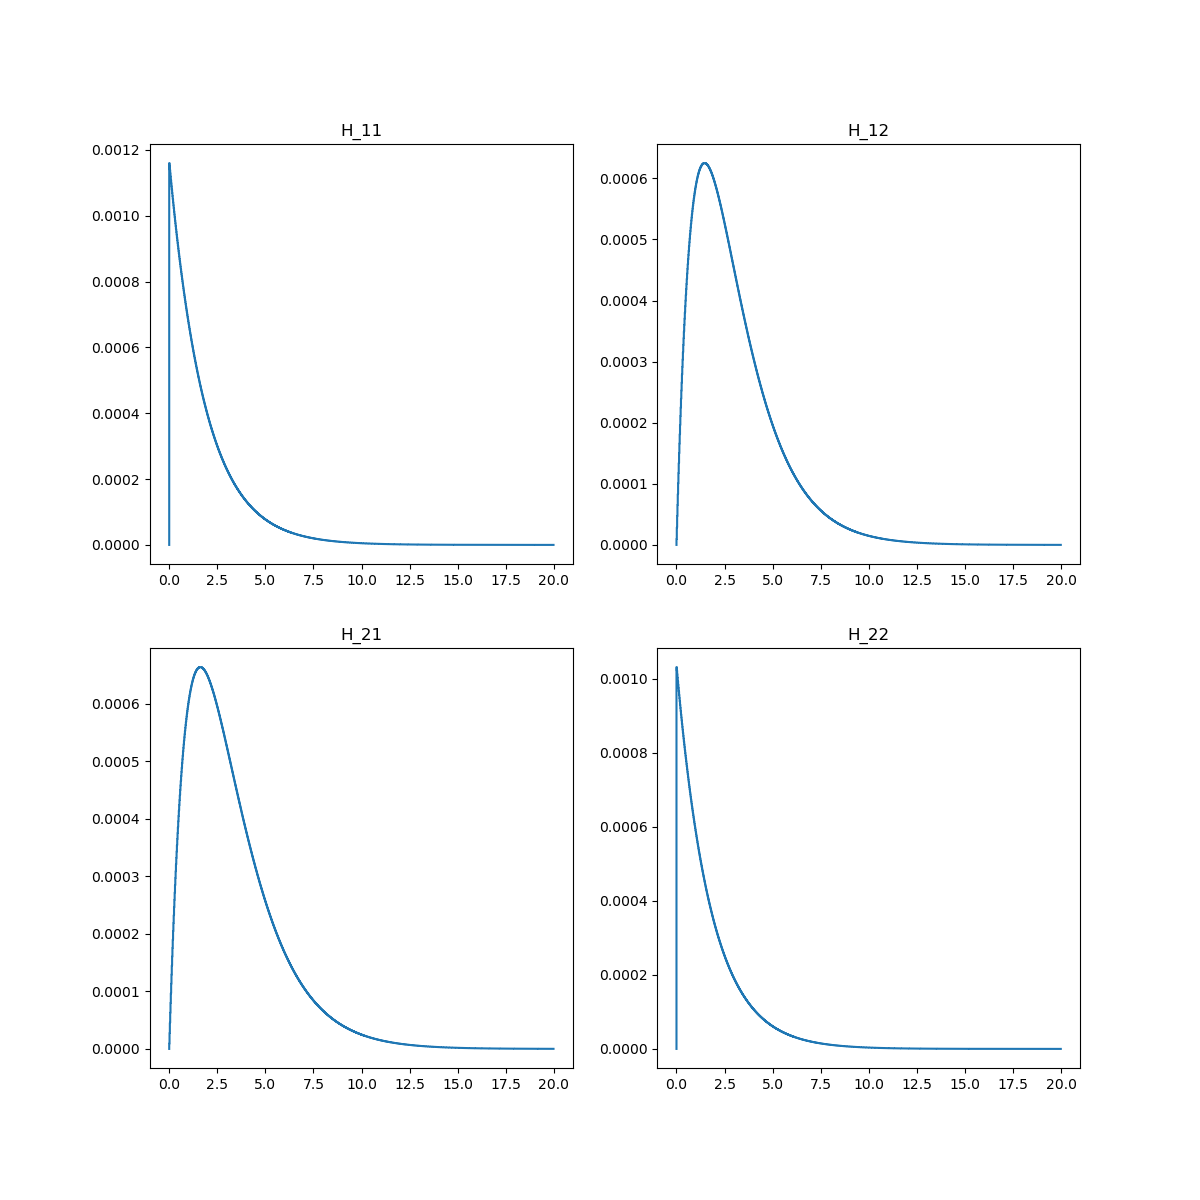
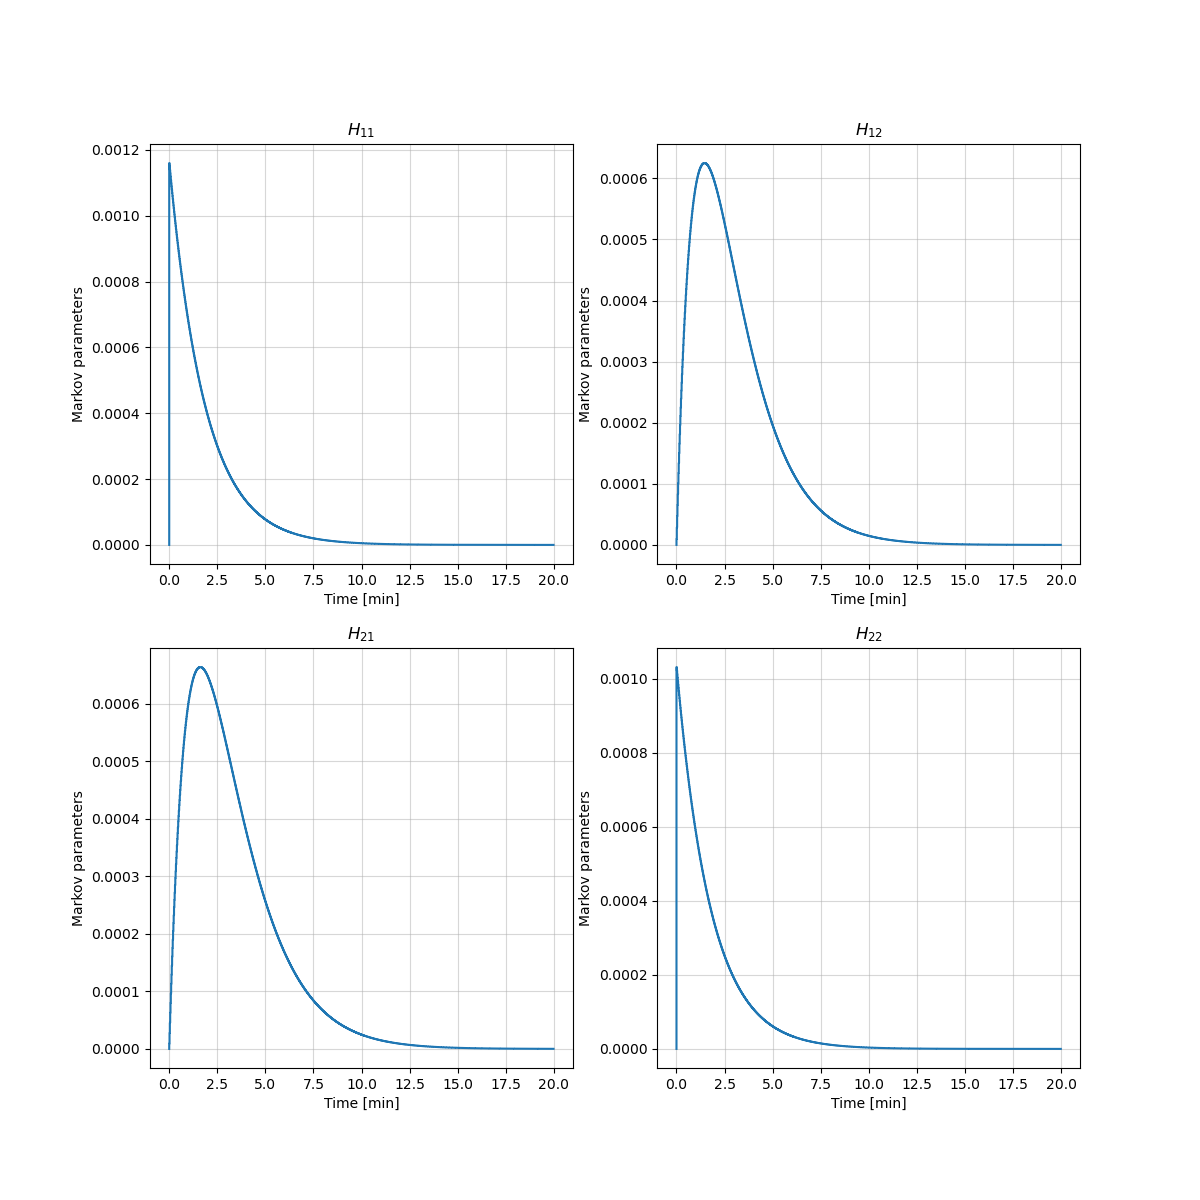
23-Oct last commit

diff --git a/Problem_4_2nd.py b/Problem_4_2nd.py
@@ -25,7 +25,7 @@ xs = Model.GetSteadyState(np.array([0, 0, 0, 0]), np.array([250, 325]), np.array
 
 # noise level = 0.1, step = 0.5
 
-df = pd.read_csv('figures/Problem4/Problem_4_df.csv')
+df = pd.read_csv('Results/Problem4/Problem_4_df.csv')
 
 df = df[df['noise_level'] == 0.0]
 
@@ -177,7 +177,10 @@ fig, axes = plt.subplots(2, 2, figsize=(12, 12))
 for i in range(2):
     for j in range(2):
         axes[i, j].step(t_array/60, H(i, j, t_array))
-        axes[i, j].set_title(f'H_{i+1}{j+1}')
+        axes[i, j].set_title(rf'$H_{{{i+1}{j+1}}}$')
+        axes[i, j].grid(True, alpha=0.5)
+        axes[i, j].set_xlabel('Time [min]')
+        axes[i, j].set_ylabel('Markov parameters')
 plt.savefig(f'figures/Problem4/Problem_4_Markow.png')
 plt.show()
 
@@ -187,14 +190,22 @@ S_21 = np.cumsum(H(1, 0, t_array))
 S_22 = np.cumsum(H(1, 1, t_array))
 
 fig, axes = plt.subplots(2, 2, figsize=(12, 12))
-axes[0, 0].step(t_array/60, S_11, label="Step parameters")
-axes[0, 0].set_title('S_11')
-axes[0, 1].step(t_array/60, S_12, label="Step parameters")
-axes[0, 1].set_title('S_12')
-axes[1, 0].step(t_array/60, S_21, label="Step parameters")
-axes[1, 0].set_title('S_21')
-axes[1, 1].step(t_array/60, S_22, label="Step parameters")
-axes[1, 1].set_title('S_22')
+axes[0, 0].step(t_array/60, S_11, label="Step parameters", color='black', ls='--')
+axes[0, 0].set_title(r'$S_{11}$')
+axes[0, 0].set_xlabel('Time [min]')
+axes[0, 0].set_ylabel('Step response')
+axes[0, 1].step(t_array/60, S_12, label="Step parameters", color='black', ls='--')
+axes[0, 1].set_title(r'$S_{12}$')
+axes[0, 1].set_xlabel('Time [min]')
+axes[0, 1].set_ylabel('Step response')
+axes[1, 0].step(t_array/60, S_21, label="Step parameters", color='black', ls='--')
+axes[1, 0].set_title(r'$S_{21}$')
+axes[1, 0].set_xlabel('Time [min]')
+axes[1, 0].set_ylabel('Step response')
+axes[1, 1].step(t_array/60, S_22, label="Step parameters", color='black', ls='--')
+axes[1, 1].set_title(r'$S_{22}$')
+axes[1, 1].set_xlabel('Time [min]')
+axes[1, 1].set_ylabel('Step response')
 
 steps = [0.1, 0.25, 0.5]
 for step in steps:
@@ -218,13 +229,10 @@ for step in steps:
     axes[1, 0].plot(t/60, h_norm[0, :], label=f"Sim (step {step})")
     axes[1, 1].plot(t/60, h_norm[1, :], label=f"Sim (step {step})")
 # plt.savefig(f'figures/Problem4/Problem_4_Stepresponse.png')
-axes[0, 0].legend()
 axes[0, 0].grid(alpha = 0.25)
-axes[1, 0].legend()
 axes[1, 0].grid(alpha = 0.25)
-axes[0, 1].legend()
 axes[0, 1].grid(alpha = 0.25)
-axes[1, 1].legend()
+axes[1, 1].legend(loc='center right')
 axes[1, 1].grid(alpha = 0.25)
 plt.savefig(f'figures/Problem4/Problem_4_Stepresponse.png')
 plt.show()
@@ -317,4 +325,4 @@ data = {
     "D": D
 }
 
-np.savez("figures/Problem4/Problem_4_data.npz", **data)
+np.savez("Results/Problem4/Problem_4_estimates.npz", **data)

diff --git a/Problem_4.py b/Problem_4.py
@@ -136,4 +136,4 @@ axes[3, 0].set_ylabel('Noise Level = 0.5\nNormalized Height [m]')
 plt.savefig(f'figures/Problem4/Problem_4_all.png')
 plt.close()
 
-df.to_csv('figures/Problem4/Problem_4_df.csv', index=False)
+df.to_csv('Results/Problem4/Problem_4_df.csv', index=False)
